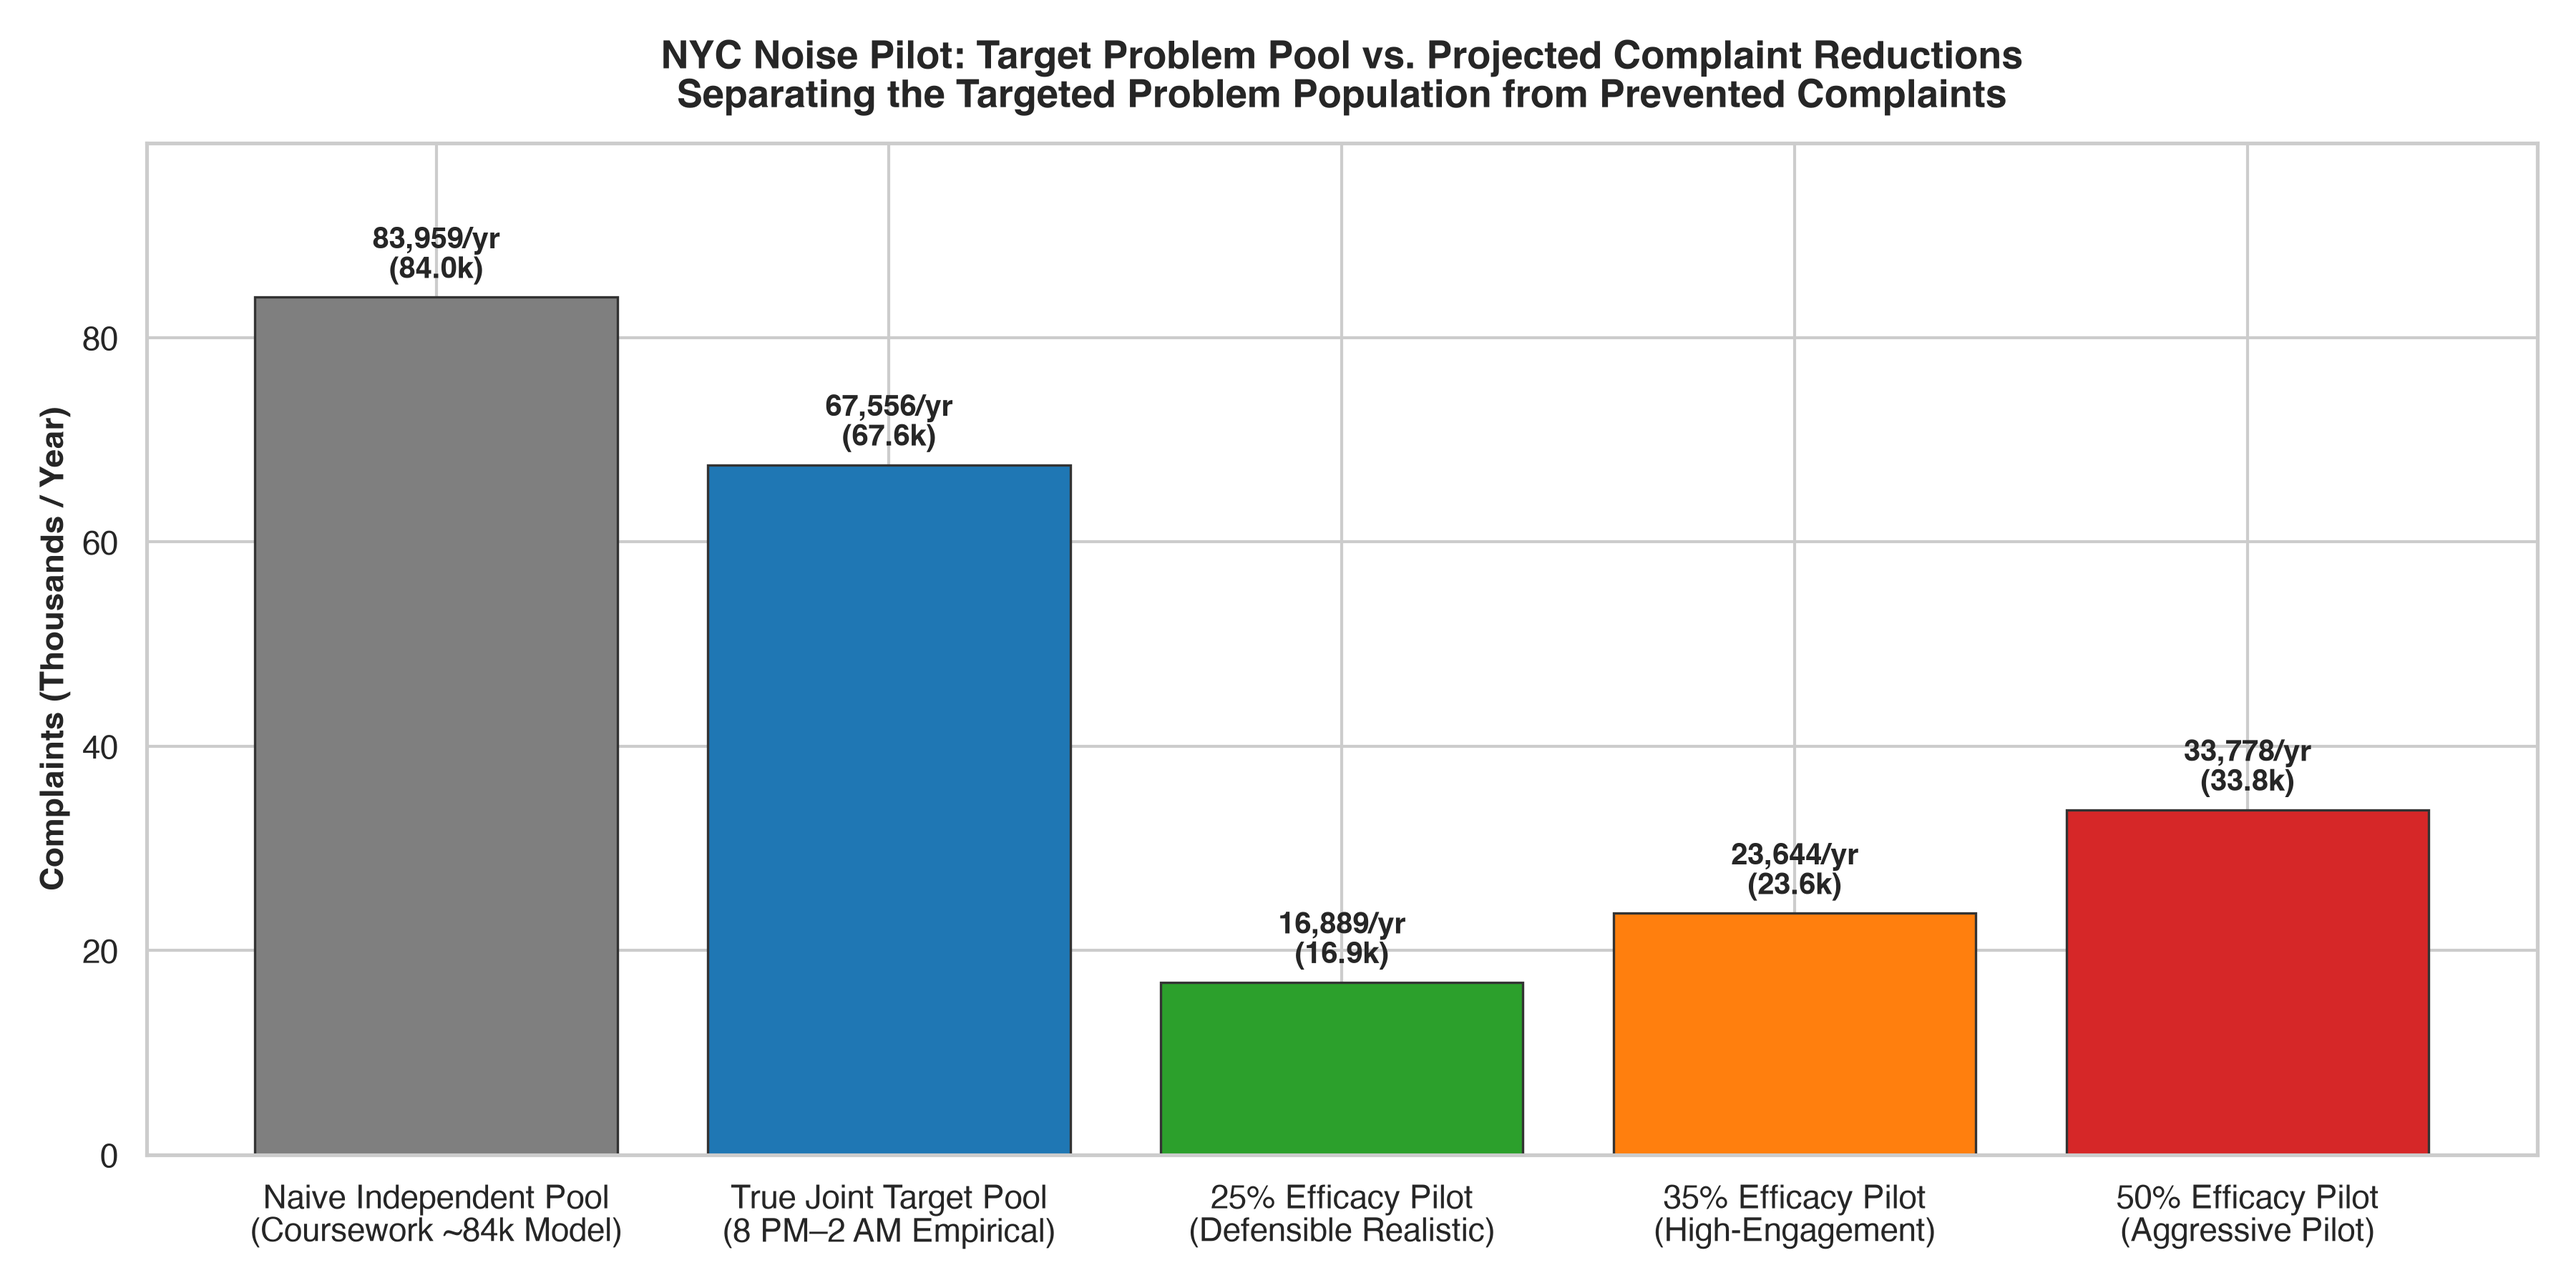
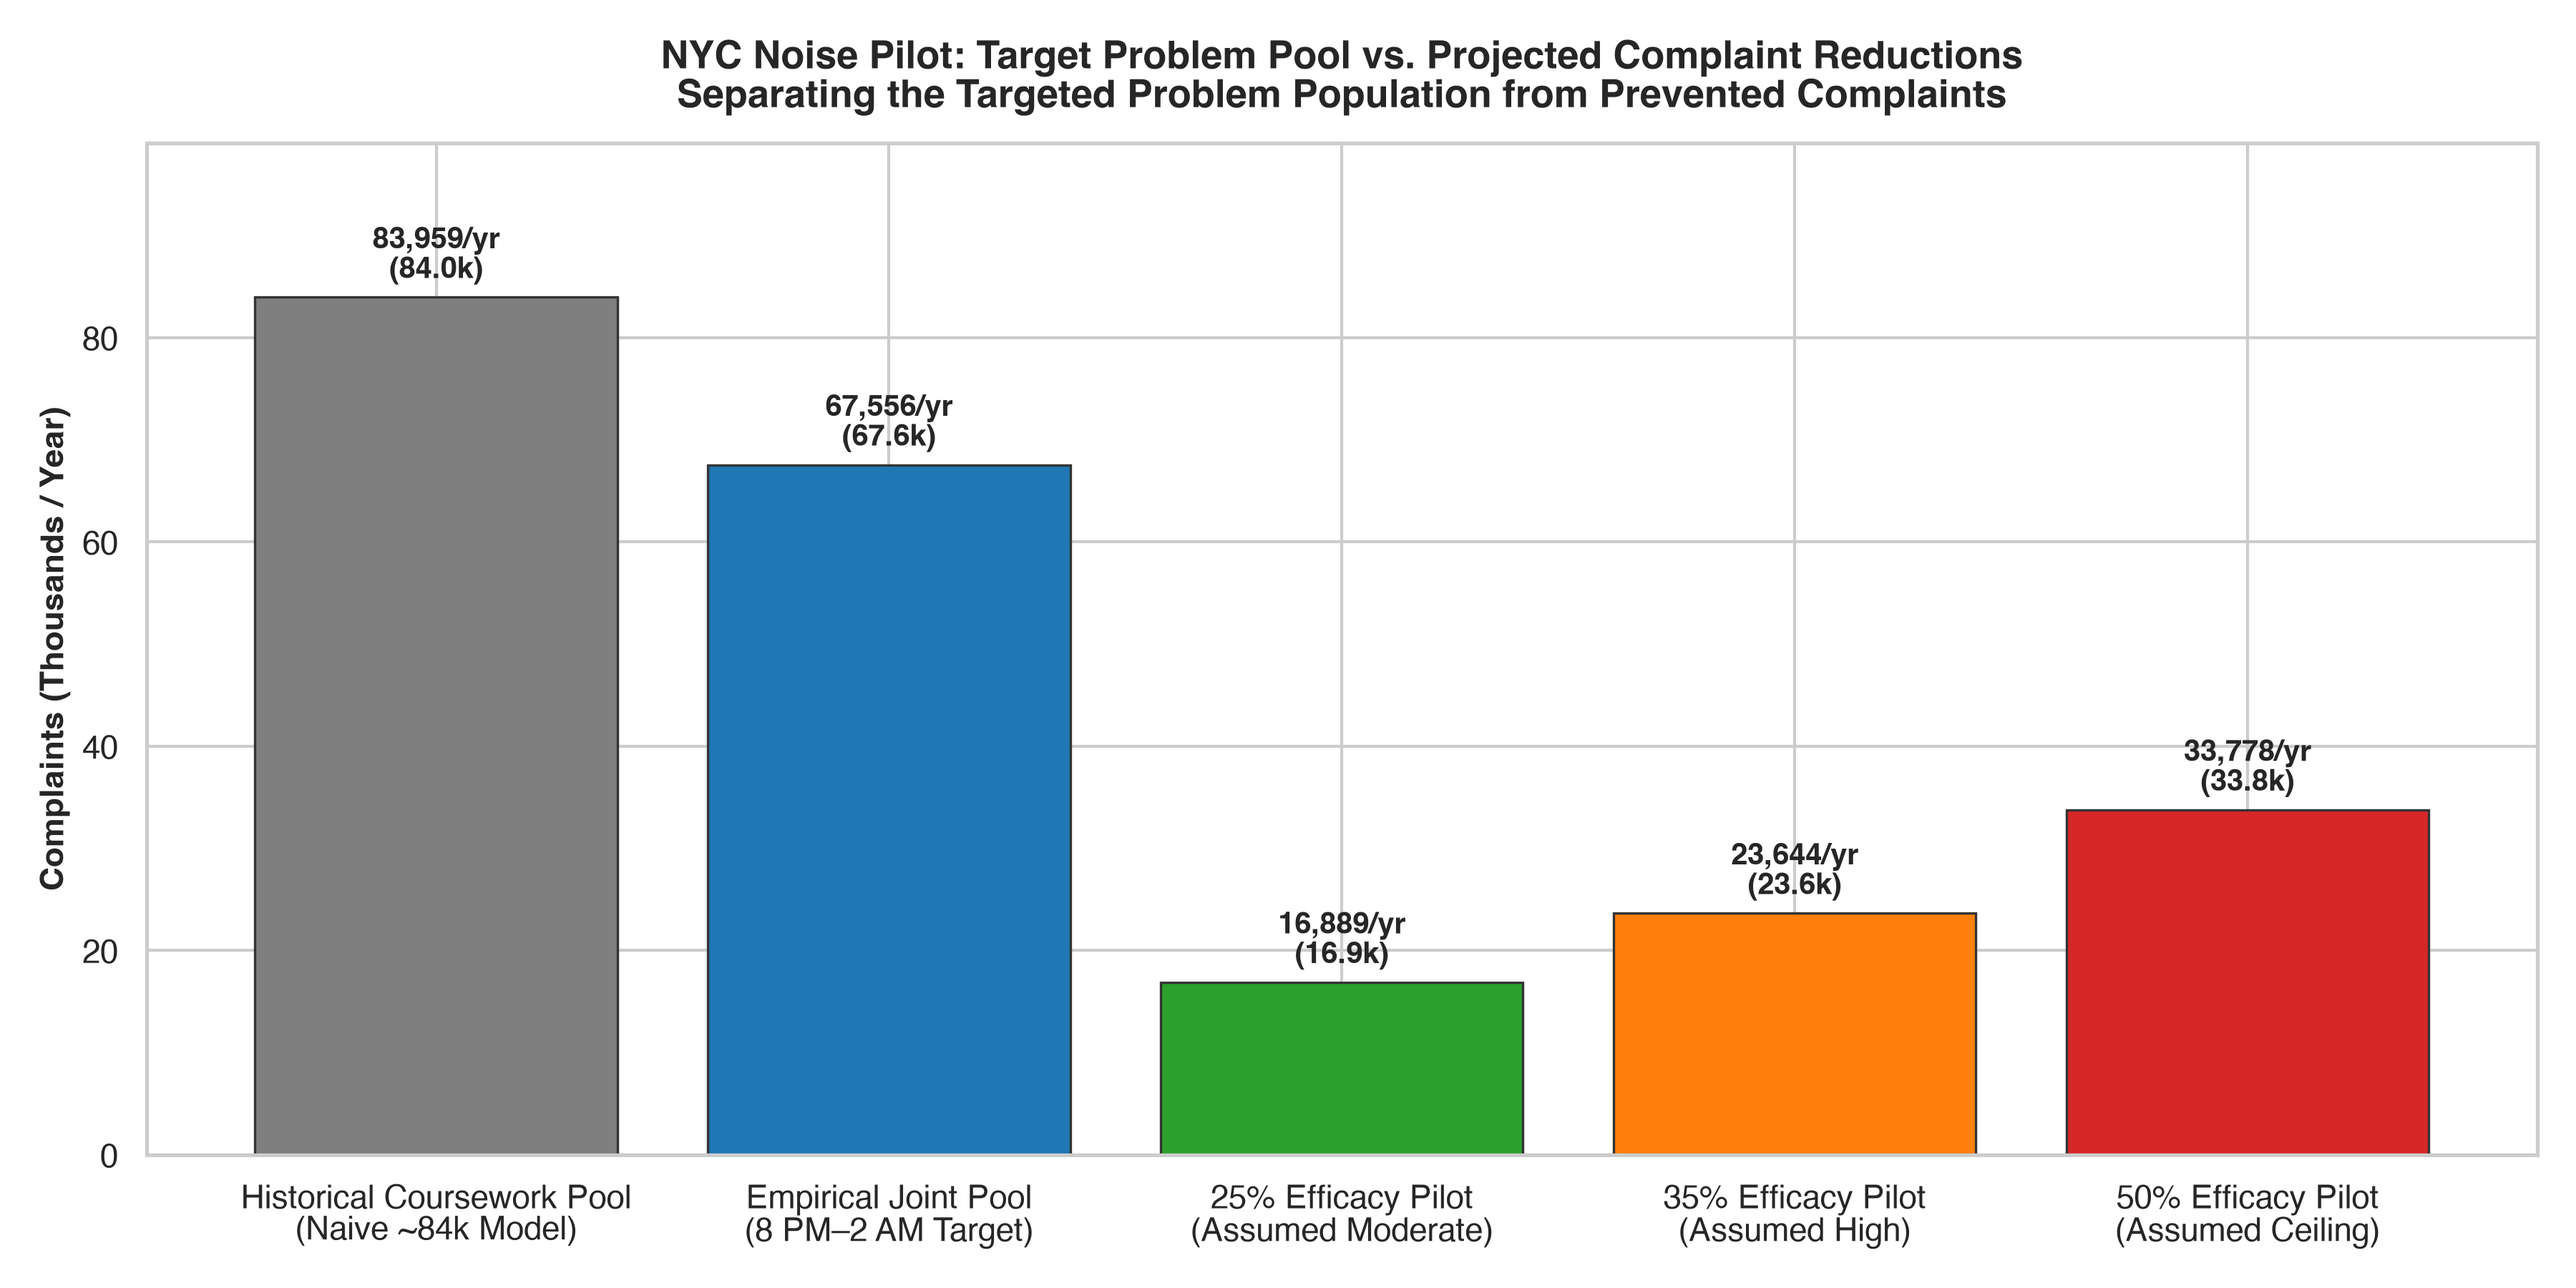
docs: apply final editorial and reproducibility adjustments to README and visuals

diff --git a/src/data_processing.py b/src/data_processing.py
@@ -369,11 +369,11 @@ def generate_all_visualizations(df: pd.DataFrame, pop: Dict, output_dir: str):
     naive_target_pool = pop["joint_intersection_metrics"]["illustrative_84k_reconstruction"]["calculated_target_pool"]
 
     labels = [
-        "Naive Independent Pool\n(Coursework ~84k Model)",
-        "True Joint Target Pool\n(8 PM–2 AM Empirical)",
-        "25% Efficacy Pilot\n(Defensible Realistic)",
-        "35% Efficacy Pilot\n(High-Engagement)",
-        "50% Efficacy Pilot\n(Aggressive Pilot)",
+        "Historical Coursework Pool\n(Naive ~84k Model)",
+        "Empirical Joint Pool\n(8 PM–2 AM Target)",
+        "25% Efficacy Pilot\n(Assumed Moderate)",
+        "35% Efficacy Pilot\n(Assumed High)",
+        "50% Efficacy Pilot\n(Assumed Ceiling)",
     ]
     vals = [
         naive_target_pool,

diff --git a/README.md b/README.md
@@ -5,7 +5,7 @@
 [![License: MIT](https://img.shields.io/badge/License-MIT-yellow.svg)](https://opensource.org/licenses/MIT)
 [![Data Source: NYC Open Data](https://img.shields.io/badge/Data-NYC%20Open%20Data-003366.svg)](https://data.cityofnewyork.us/Social-Services/311-Service-Requests-from-2010-to-Present/erm2-nwe9)
 
-> **Executive Summary:** An operational data-analytics investigation translating **1.44 million municipal 311 incident records** (2023–2024) into an empirical resource-allocation strategy. Demonstrates spatial and temporal Pareto concentration, resolves **joint probability vs. naive marginal multiplication**, and provides civic leadership with an audited decision-support model to transition from uniform, reactive patrols toward a high-impact enforcement pilot.
+> **Executive Summary:** This project evaluates **1.44 million NYC 311 noise complaints** (2023–2024) to address a core municipal operations challenge: deploying limited enforcement and community-mediation resources without data-driven spatial and temporal prioritization. Using Python, pandas, and the NYC Open Data Socrata API, the analysis establishes that **77.8% of complaints concentrate in three boroughs** (Manhattan, Brooklyn, Bronx), with citywide volume surging **+23% on Fridays and +78% on weekends**. By auditing the **empirical joint probability** of complaints ($P(\text{Top 10 ZIP} \cap \text{8 PM–2 AM}) = 9.39\%$), the study isolates a targeted problem pool of **~67,600 complaints annually** and evaluates illustrative pilot scenarios to inform data-driven civic decision-making.
 
 ---
 
@@ -14,10 +14,10 @@
 Municipal service centers handle millions of citizen requests annually. In New York City, noise complaints represent the **single largest volume** of 311 service requests directed to the New York City Police Department (NYPD) and Department of Environmental Protection (DEP).
 
 ### The Operational Challenge
-Traditional municipal operations disperse patrol officers and inspection teams reactively and uniformly across all 59 Community Districts 24 hours a day. This "peanut-butter spreading" approach:
-1. Dilutes enforcement impact across severe, chronic hotspots.
-2. Incurs high municipal overtime costs during non-peak windows.
-3. Fails to reduce recurrent quality-of-life complaints.
+Without data-driven spatial and temporal targeting, municipal quality-of-life responses face operational friction:
+1. Broad, reactive deployments risk diluting coverage across severe, chronic hotspots.
+2. Standard shift scheduling can incur overtime during non-peak hours while under-resourcing peak weekend windows.
+3. Recurrent quality-of-life complaints persist without localized root-cause intervention.
 
 **Core Business Question:**  
 *Where and when do noise complaints concentrate, and how can limited municipal resources be deployed surgically to maximize quality-of-life remediation?*
@@ -43,8 +43,8 @@ All metrics reflect rigorous population-level extraction and multi-season comple
 | **Evening/Night Window (All Days)**| **50.29% (~51%) (8 PM – 2 AM)**| $\frac{724,018 \text{ (Hours 20–01)}}{1,439,558 \text{ (Total Records)}} \times 100$ | 6-hour window capturing over half of all complaints (51.40% in sample). |
 | **Operational "Ground Zero"** | **21.17% (10 PM – 12 AM)** | $\frac{304,740 \text{ (Hours 22–23)}}{1,439,558 \text{ (Total Records)}} \times 100$ | Peak 2-hour window capturing over one-fifth of citywide volume. |
 | **Empirical Joint Target Pool** | **9.39% (~67.6k/yr)** | $\frac{135,111 \text{ (Top 10 ZIPs } \cap \text{ 8 PM--2 AM)}}{1,439,558 \text{ (Total Records)}} \times 100$ | True empirical joint problem pool ($P(\text{ZIP} \cap \text{Time})$). |
-| **Naive Marginal Multiplication** | **~84,000 Complaints/yr** | $828,000 \text{ (Peak Baseline)} \times 20\% \text{ (ZIP)} \times 50.7\% \text{ (Time)} = 83,959$ | Original coursework estimate assuming statistical independence. |
-| **Projected Pilot Reductions** | **~13.5k to ~33.8k/yr** | Efficacy Sensitivity: 20% Efficacy $= 13,511$; 25% $= 16,889$; 50% $= 33,778$ | Realistic prevented complaint scenarios on true empirical joint pool. |
+| **Historical Coursework Estimate** | **~84,000 Complaints/yr** | $828,000 \text{ (Peak Baseline)} \times 20\% \text{ (ZIP)} \times 50.7\% \text{ (Time)} = 83,959$ | Historical coursework scenario estimate assuming independent marginal probabilities; represents the targeted problem pool rather than an observed or verified intervention impact. |
+| **Assumed Pilot Reductions** | **~13.5k to ~33.8k/yr** | Efficacy Sensitivity: 20% Efficacy $= 13,511$; 25% $= 16,889$; 50% $= 33,778$ | Illustrative prevented complaint scenarios evaluated on the true empirical joint problem pool. |
 
 ---
 
@@ -72,12 +72,12 @@ Plotting complaint volume across the 168 hours of the week confirms intense temp
 ---
 
 ### 4. Pilot Scenario Modeling: Target Pool vs. Prevented Complaints
-To maintain analytical rigor, the project separates the **target problem pool** from **prevented complaints** across realistic effectiveness rates (25% = ~16.9k, 35% = ~23.6k, 50% = ~33.8k).
+To maintain analytical rigor, the project separates the **target problem pool** from **prevented complaints** across illustrative effectiveness scenarios (25% = ~16.9k, 35% = ~23.6k, 50% = ~33.8k).
 
 ![Pilot Scenario Projection](visuals/pilot_scenario_projection.png)
 
 > [!NOTE]
-> **Methodological Guardrail on the 84,000 Figure:** The 84,000 figure is retained strictly as an **illustrative upper-bound scenario** representing the naive marginal estimate of the targeted problem pool ($828\text{k} \times 20\% \times 50.7\% = 83,959 \approx 84\text{k}$). The true empirical joint intersection is **9.39%** (67,556 complaints/yr on actual 2-year volume). Preventing 84,000 complaints from this pool would require >100% efficacy. Realistic pilot models project 13,500 to 33,800 complaints prevented annually.
+> **Methodological Guardrail on the 84,000 Figure:** The 84,000 figure is a **historical coursework scenario estimate** derived from naive marginal multiplication of annual peak volume ($828\text{k} \times 20\% \times 50.7\% = 83,959 \approx 84\text{k}$). It reflects an illustrative calculation of the *targeted complaint pool*, **not** an observed, verified, or realized intervention reduction. The true empirical joint intersection is **9.39%** (~67,556 complaints/yr on actual 2-year volume). Preventing 84,000 complaints from this pool would require an impossible >100% efficacy rate. Illustrative pilot scenarios project 13,500 to 33,800 complaints prevented annually under assumed 20% to 50% intervention efficacy rates.
 
 ---
 
@@ -101,7 +101,7 @@ $$P(\text{Top 10 ZIP} \cap \text{8 PM–2 AM}) = \frac{135,111}{1,439,558} = \ma
 
 ## 🛠 Tech Stack & Reproducibility Architecture
 
-* **Language:** Python 3.10+
+* **Language:** Python 3.10+ (tested on Python 3.10 through 3.14)
 * **Data Processing & Analysis:** pandas, NumPy
 * **Visualization & Reporting:** Matplotlib, Seaborn
 * **Data Telemetry & Extraction:** Socrata Open Data API (SoQL), requests
@@ -167,6 +167,11 @@ jupyter notebook notebooks/nyc_noise_analysis.ipynb
 *(Optional) To regenerate population metrics live from the NYC Open Data Socrata API:*
 ```bash
 python src/data_processing.py --regenerate-population-metrics
+```
+
+*(Optional) To regenerate all visual charts:*
+```bash
+python src/data_processing.py --generate-charts
 ```
 
 ---
